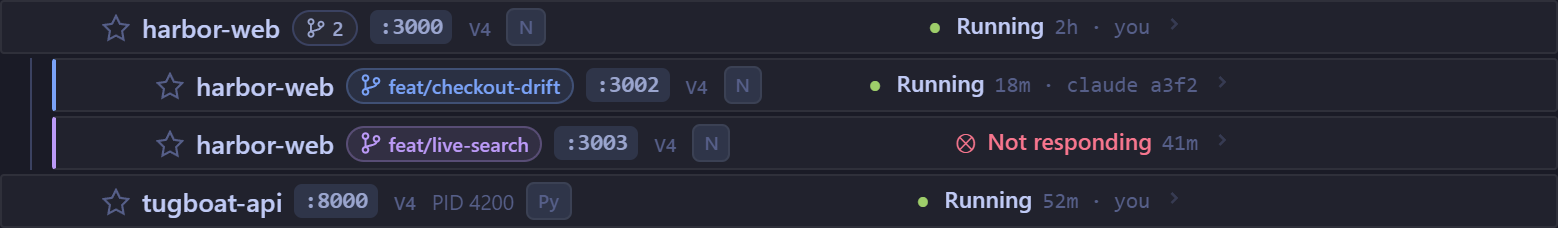
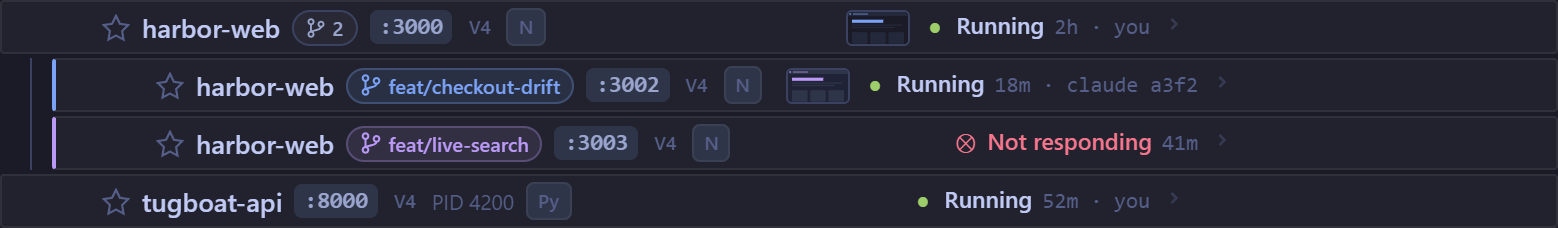
docs(landing): show row page previews in the hero and row crops, fix 3.4 eyebrow
Regenerated hero-app.png and crop-row-state.png from the demo seed (docs/demo/tools/assets.mjs) so the landing page shows the Apps-row previews from 3.6.0. The eyebrow said 3.4.

diff --git a/docs/index.html b/docs/index.html
@@ -106,7 +106,7 @@
     <header class="hero">
       <div class="container hero-grid">
         <div class="hero-text">
-          <p class="eyebrow"><img src="logo-128.png" alt="" width="20" height="20"> PortPilot 3.4 &middot; free &middot; MIT</p>
+          <p class="eyebrow"><img src="logo-128.png" alt="" width="20" height="20"> PortPilot 3.6 &middot; free &middot; MIT</p>
           <h1>You and Claude Code, one view of what's running</h1>
           <p class="lede">PortPilot runs your local dev servers. With the Claude Code plugin, Claude sees the same apps, ports and crashes you do, and reuses a running server instead of starting a second copy.</p>
           <div class="cta-row">
@@ -180,7 +180,7 @@
             <h3>Row state, and who started it</h3>
             <p>Every app shows its state, how long it has been in it and who started it: you, or a Claude Code session. A crashed app reads <code>&#10005; Crashed &middot; exit 1</code>. The VS Code tree uses the same states.</p>
           </div>
-          <div class="crop-scroll" tabindex="-1"><img src="screenshots/crop-row-state.png" class="crop zoomable" tabindex="0" width="779" height="114" loading="lazy" alt="Four app rows: harbor-web running 2h started by you, a branch running 18m started by claude a3f2, another branch not responding for 41m, and tugboat-api running 52m"></div>
+          <div class="crop-scroll" tabindex="-1"><img src="screenshots/crop-row-state.png" class="crop zoomable" tabindex="0" width="779" height="114" loading="lazy" alt="Four app rows, the two running harbor-web rows with a small page preview: harbor-web running 2h started by you, a branch running 18m started by claude a3f2, another branch not responding for 41m, and tugboat-api running 52m"></div>
         </div>
         <div class="feature-row reveal">
           <div class="feature-copy">
